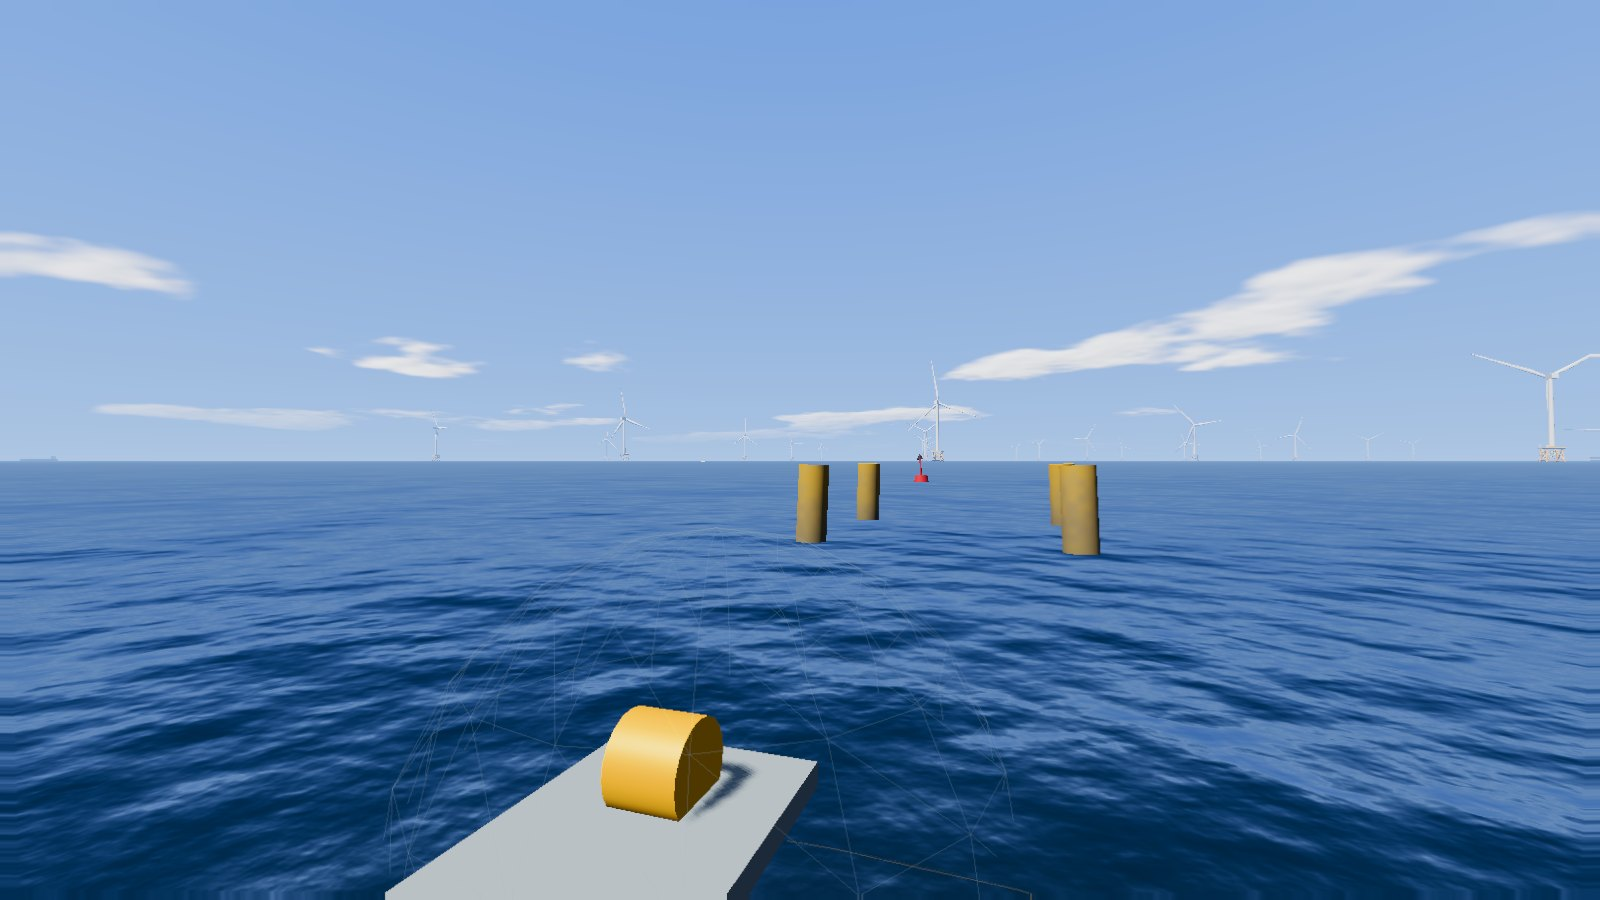
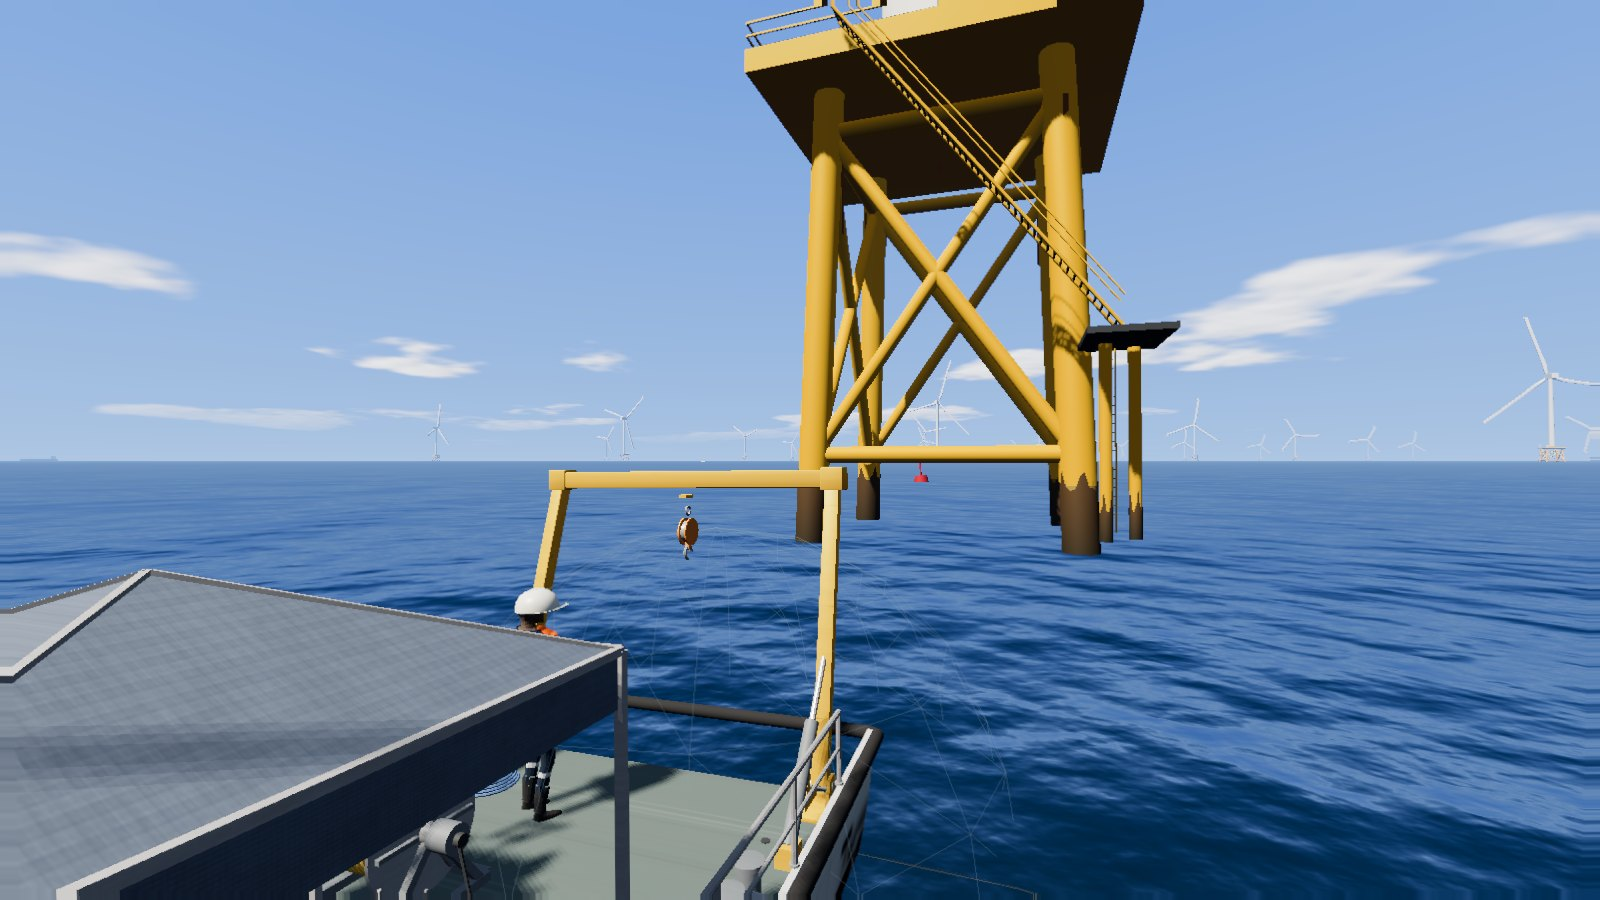
Launch point: the work boat holds station for the whole dive
Replace the placeholder spool drum and grey slab in app.js with spool_station.js: the
deployment intro's work boat (same model and placement, shared through placeWorkBoat in
deploy_intro.js) stays at the spool with a crew member by the winch whenever no intro boat is
in the scene; the spool label points at its stern. No boat in the indoor pool. No collider is
added (the server has none); the hull extends away from the dive site and the README records
where it can visually overlap the recovery point. app.js keeps only the import and calls.

docs/design/wind-farm: second-round before/after shots (site foundations, launch point, rotor
close-ups) and README sections on blades, site topsides, collision and the boat.

Claude-Session: https://claude.ai/code/session_01N551KvQYSQDapLw9TFaBhA

Changed region(s): [[0.0, 0.0, 0.75, 1.0], [0.9375, 0.4044, 1.0, 0.4356]]

diff --git a/simulator/viewer/spool_station.js b/simulator/viewer/spool_station.js
@@ -1,0 +1,82 @@
+// The support work boat holding station at the launch point for the whole dive.
+//
+// In reality the boat that launched the vehicle stays at the launch point while it works and the tether runs
+// up to its stern, where the winch is. The deployment intro (deploy_intro.js) brings its own boat; whenever no
+// intro exists (`?nointro`, the intro switched off, a joined room, a replay) this module shows the same boat,
+// placed the same way: transom at the spool, bow pointing away from the dive site, one crew member idling by
+// the tether reel. It is presentation only: the server has no boat collider, so the hull must stay clear of
+// where the vehicle surfaces (see docs/design/wind-farm/README.md).
+//
+//   const station = new SpoolStation(scene, loadIntroAssets);
+//   station.build(world, startNed);          // after every world (re)build
+//   each frame: station.update(dt, introBoatShown)
+//   station.labelPosition(world)             // where the "spool" label sits: the boat's stern
+import * as THREE from 'three';
+import {Humanoid} from './humanoid.js';
+import {placeWorkBoat} from './deploy_intro.js';
+import {surfacePlan} from './surface_set.js';
+
+const LABEL_LIFT = 1.2;
+
+export class SpoolStation {
+  constructor(scene, loadAssets) {
+    this.scene = scene;
+    this.loadAssets = loadAssets;
+    this.boat = null;
+    this.crew = null;
+    this.generation = 0;
+    this.t = 0;
+  }
+
+  /** (Re)places the boat for a world; the boat model loads once and is shared with the intro's assets. */
+  async build(world, start) {
+    this.clear();
+    const generation = ++this.generation;
+    // An indoor pool is worked from its edge, not from a boat.
+    if (!world?.spool || surfacePlan(world).kind === 'indoor') return;
+    const assets = await this.loadAssets().catch(() => ({}));
+    if (generation !== this.generation) return;
+    const boat = placeWorkBoat(assets, world.spool, start);
+    boat.name = 'spool-station-boat';
+    const ud = boat.userData;
+    if (assets.human) {
+      this.crew = new Humanoid(assets.human, {shirt: 0x2b3f55, pants: 0x2a2f36, vest: 0xff6a13, helmet: 0xf4f4ef});
+      this.crew.root.position.set(-0.62, ud.deckY, ud.sternZ + 1.1);
+      this.crew.root.rotation.y = Math.PI * 0.85;
+      this.crew.play('Idle', {at: 0.7});
+      boat.add(this.crew.root);
+    }
+    this.boat = boat;
+    this.scene.add(boat);
+  }
+
+  /** introBoat: the deployment intro's own boat is in the scene, so this one stays hidden. */
+  update(dt, introBoat) {
+    if (!this.boat) return;
+    this.boat.visible = !introBoat;
+    if (introBoat) return;
+    this.t += dt;
+    // Holding station in a slight sea: the same gentle motion the intro gives its boat.
+    this.boat.rotation.z = Math.sin(this.t * 0.9) * 0.018;
+    this.boat.rotation.x = Math.sin(this.t * 0.7 + 1) * 0.012;
+    this.boat.position.y = Math.sin(this.t * 0.8) * 0.05;
+    this.crew?.update(dt);
+  }
+
+  /** The spool label: on the boat's stern above the winch when the boat is shown, else over the spool point. */
+  labelPosition(world) {
+    if (this.boat) {
+      const ud = this.boat.userData;
+      return this.boat.localToWorld(new THREE.Vector3(0, ud.deckY + LABEL_LIFT, ud.sternZ + 0.5));
+    }
+    const s = world.spool;
+    return new THREE.Vector3(-s[1], -s[2], s[0]).add(new THREE.Vector3(0, LABEL_LIFT, 0));
+  }
+
+  clear() {
+    this.generation++;
+    if (this.boat) this.scene.remove(this.boat);
+    this.boat = null;
+    this.crew = null;
+  }
+}

diff --git a/simulator/viewer/app.js b/simulator/viewer/app.js
@@ -29,6 +29,7 @@ import {installMusic} from './audio/music.js';
 import {installVoice} from './audio/voice.js';
 import { OrbitControls } from 'three/addons/controls/OrbitControls.js';
 import { DeployIntro } from './deploy_intro.js';
+import { SpoolStation } from './spool_station.js';
 import { placeSceneModel } from './scene_models.js';
 import { Cable } from './cable.js';
 import { Environment } from './environment.js';
@@ -231,7 +232,7 @@ const objG = new THREE.Group(); scene.add(objG);
 let objMarkers = [];
 let structureSet = null;                // structures.js: detailed meshes drawn inside the collision shapes
 
-let spoolMarker = [];
+const spoolStation = new SpoolStation(scene, () => loadIntroAssets());
 let env = null;
 function buildWorld() {
   surfacePaint.update(null);
@@ -249,12 +250,7 @@ function buildWorld() {
   worldG.add(structureSet.group);
   for (const [name, entry] of structureSet.entries) obstacleMeshes.set(name, entry);
   for (const ob of W.obstacles || []) if (ob.type === 'model') placeSceneModel(ob, worldG, P, detail);
-  // spool / deployment point
-  const sp = P(W.spool || [0, 0, 0]);
-  const drum = new THREE.Mesh(new THREE.CylinderGeometry(.45, .45, .7, 20), new THREE.MeshStandardMaterial({ color: 0xf2b705, roughness: .5 }));
-  drum.rotation.z = Math.PI / 2; drum.position.copy(sp).add(new THREE.Vector3(0, .5, 0)); worldG.add(drum); spoolMarker = [drum];
-  const deck = new THREE.Mesh(new THREE.BoxGeometry(2.2, .3, 3.2), new THREE.MeshStandardMaterial({ color: 0x8795a0 }));
-  deck.position.copy(sp).add(new THREE.Vector3(0, .1, -.6)); worldG.add(deck); spoolMarker.push(deck);
+  spoolStation.build(W, startPresentation?.introStart(W, S?.pos || [0, 0, 3]) || W.start_pos || [0, 0, 3]);
   buildObjectives(W.objectives || []);
   buildThrBars();
   matchThrusters();
@@ -1275,7 +1271,7 @@ function frame(now) {
   siltFx.update({camera, state: S, world: W, waterColour: _wc, real: $('optFog').checked && camMode !== 'top',
     displayFar: Math.max(90, cameraRig.topH * 4), lampLevel: [0, .55, 1][S?.rc?.right_switch || 0] || 0, rov: rovG});
   daylightRig.update({ camera, world: W, dt, view: camMode, surface, renderer });
-  for (const m of spoolMarker) m.visible = !intro;            // the work boat replaces the placeholder reel
+  spoolStation.update(dt, !!intro);                            // the intro brings its own boat
   objG.visible = !inIntro; if (inIntro) { curArrow.visible = false; particles.visible = false; }
   if (!inIntro) updateParticles(dt, rovG.position);
   updatePenNet(structureSet, flowField, now / 1000);
@@ -1306,7 +1302,7 @@ function frame(now) {
   // labels
   const r = vp.getBoundingClientRect();
   const L = [];
-  if (W?.spool) L.push({ id: 'spool', text: '纜盤 / 投放點', pos: P(W.spool).add(new THREE.Vector3(0, 1.2, 0)), cls: 'spool' });
+  if (W?.spool) L.push({ id: 'spool', text: '纜盤 / 投放點', pos: spoolStation.labelPosition(W), cls: 'spool' });
   if (cur) L.push({ id: 'obj', text: `${cur.o.label} · ${cur.m.g.position.distanceTo(rovG.position).toFixed(1)} m`, pos: cur.m.g.position, cls: 'obj' });
   for (const w of wrapLabels) L.push(w);
   for (const n of S?.tether?.snagged_on || []) { const e = obstacleMeshes.get(n); if (e && !wrapLabels.some((w) => w.id === 'wrap:' + n)) { const p = e.mesh.position.clone(); if (e.ob.type === 'cylinder') p.y = rovG.position.y + 1; L.push({ id: 'snag:' + n, text: `卡纜：${n}`, pos: p, cls: 'bad' }); } }

diff --git a/simulator/viewer/deploy_intro.js b/simulator/viewer/deploy_intro.js
@@ -207,6 +207,26 @@ function sagLine(out, a, b, sag, count, floorY = -Infinity) {
   }
 }
 
+/**
+ * The work boat at the launch point: stern (-Z local) at the spool, bow pointing away from the dive site.
+ * Shared with spool_station.js, which keeps the same boat there when no intro is shown.
+ */
+export function placeWorkBoat(assets, spool, start) {
+  const boat = (assets.boat && placeVesselModel(assets.boat)) || buildFallbackBoat();
+  const at = toThree(spool);
+  const dir = new THREE.Vector3().subVectors(toThree(start), at);
+  dir.y = 0;
+  if (dir.lengthSq() < 1e-6) dir.set(0, 0, -1);
+  dir.normalize();
+  boat.rotation.y = Math.atan2(-dir.x, -dir.z);
+  const ud = boat.userData;
+  boat.position.copy(at).addScaledVector(dir, ud.sternZ + 0.15);   // transom just inboard of the spool
+  boat.position.y = 0;
+  if (!ud.drum || !ud.exit) buildFallbackDrum(boat);
+  boat.updateMatrixWorld(true);
+  return boat;
+}
+
 export class DeployIntro {
   static async loadAssets(base = 'models/', { tier = assetTextureTier() } = {}) {
     const boatFile = tier === 'high' ? 'workboat_high.glb' : 'workboat.glb';
@@ -232,19 +252,9 @@ export class DeployIntro {
     this.playing = false;
     this.objects = [];
 
-    // boat: stern (-Z local) at the spool, bow pointing away from the dive site
-    this.boat = (assets.boat && placeVesselModel(assets.boat)) || buildFallbackBoat();
-    const dir = new THREE.Vector3().subVectors(this.start, this.spool);
-    dir.y = 0;
-    if (dir.lengthSq() < 1e-6) dir.set(0, 0, -1);
-    dir.normalize();
-    this.boat.rotation.y = Math.atan2(-dir.x, -dir.z);
+    this.boat = placeWorkBoat(assets, spool, start);
     const ud = this.boat.userData;
-    this.boat.position.copy(this.spool).addScaledVector(dir, ud.sternZ + 0.15);   // transom just inboard of the spool
-    this.boat.position.y = 0;
     this._add(this.boat);
-    if (!ud.drum || !ud.exit) buildFallbackDrum(this.boat);
-    this.boat.updateMatrixWorld(true);
 
     this.rig = new LaunchRig(this.boat);
     this._add(this.rig.group);

diff --git a/docs/design/wind-farm/README.md b/docs/design/wind-farm/README.md
@@ -1,4 +1,4 @@
-# 水面以上的離岸風場與海平線構圖（`simulator/viewer/wind_farm.js`、`surface_set.js`）
+# 水面以上的離岸風場與海平線構圖（`simulator/viewer/wind_farm.js`、`surface_set.js`、`site_topside.js`、`spool_station.js`）
 
 擁有者提供了幾張參考圖（離岸與近岸風場的搜尋結果截圖，以及一張自己拍的黃色導管架照片）。
 那些是第三方照片，**不放進儲存庫，也不放任何由其像素衍生的影像**；本文只用文字描述看到的特徵與量到的數值。
@@ -20,12 +20,14 @@
 | 項目 | 修改前 | 修改後 |
 |---|---|---|
 | 風機數量與排列 | 6 支一直線，距場址 520 m、間距 260 m | 導管架場址 44 支＋1 座變電站，錯位格網，延伸約 6～8 km |
-| 葉片 | 2.6 × 62 m 扁平長方塊 | 翼型斷面（NACA 4 位數對稱翼型，根部漸變為圓）、扭轉、葉尖預彎，葉尖弦長約 0.5 m |
+| 葉片 | 2.6 × 62 m 扁平長方塊 | 彎刀形平面：圓形葉根、20 % 展長處最大弦長、前緣近乎直線、後緣外凸後以長弧線收到葉尖；翼型斷面放樣、扭轉 13°→0°、葉尖預彎 4.5 % 半徑 |
 | 機艙／輪轂 | 方塊＋球 | 長方形機艙（前端略縮一階，不做圓角）＋短尖錐導流罩 |
 | 基礎 | 平滑黃色圓柱 | 單樁：黃色轉接段、黑色浪濺帶、深色平台、欄杆、靠船樁、吊桿；導管架：四腳斜撐、X 撐、方形甲板與欄杆 |
 | 島嶼 | 9 座 25～115 m 高的多面體錐，在 700～1080 m（夾在風機之間） | 全部移除；只有近岸場址有低矮、平滑、被空氣霧化的遠方陸地剪影 |
 | 其他船 | 方塊＋錐形船艏 | 平直船側的剪影：人員運輸船（雙體 26 m）、小型貨輪（90 m）、近岸漁船（18 m）、工作船（30 m） |
 | 轉子動畫 | CPU 每幀改 6 個群組 | 頂點著色器依每支風機的相位與轉速旋轉，CPU 不做事 |
+| 巡檢中的導管架／單樁 | 只到水面上 3 m 就截斷（四根黃色短柱、深褐色鼓狀轉接段） | 水面以上補到轉接段與甲板，上面立著風機（見下節） |
+| 投放點 | 灰色方板＋黃色半圓柱（佔位用） | 下水的工作船整個潛航都留在投放點，纜線從船尾出去（見下節） |
 
 ## 使用的數值（典型公開值，不指涉任何廠牌或型號）
 
@@ -40,6 +42,55 @@
 - 每支風機偏航有 ±4° 的差異（各自追風），相位隨機，因此不會同步。
 - 葉片最大弦長：`jacket` 4.3 m、`large` 5.6 m（展弦比超過 15）；葉片傾角 5～6°，葉尖預彎約 3.5 % 半徑。
 - 風場外緣斜切一角（依海域租約線），格網有約 6～8 % 的隨機偏移；變電站放在中間一排。
+
+## 葉片與轉子（第二輪，擁有者：「葉片認真做」「像刀子一樣有弧度」）
+
+- 平面形狀：葉根為圓柱（直徑 3.4 m／4.4 m），4～20 % 展長平滑過渡到最大弦長（`jacket` 4.3 m、`large` 5.6 m），
+  之後以凸曲線收到葉尖（最大弦長的 10 %，最後一站再縮成圓尖）。前緣距變槳軸只從 27 % 弦長緩慢變到葉尖，
+  所以前緣近乎直線，弦長的變化全在後緣：正面看是一把微彎的刀。外側 45 % 葉尖略往後緣掃（約 1 % 半徑）。
+- 斷面：NACA 4 位數對稱翼型（後緣薄、前緣圓），根部漸變為圓；近景每站 12 點、26 站，遠景 6 點、10 站。
+- 扭轉 13°（葉根）到 0°（葉尖）；預彎往上風 4.5 % 半徑（側面可見弧度）；轉子面上仰 5～6°，在塔筒上風側。
+- 輪轂：短尖錐導流罩，直徑約為機艙高度的 0.7 倍；每支葉根套一圈變槳軸承法蘭，葉根伸入導流罩，不是懸空。
+- 遠景破碎成虛線的原因是葉片比一個像素還細。頂點著色器依輪轂距離與每像素角度，把每個斷面沿弦向與厚度方向
+  各自放寬到至少約 1.7 像素（`aBlade` 變槳軸點、`aSection` 扭轉／半弦長／半厚度）；這是隨距離連續變化的，
+  近景完全不動。取代第一輪「遠景模型葉片加寬 1.6 倍」的做法。
+- 紅白紅航空色帶只在 `large` 型（外海大型機），色帶交界用重複斷面，不會漸層。
+
+專用近拍鏡頭（最近一支風場風機，海面上 10 m）：`rotor-front-150`、`rotor-front-300`、`rotor-front-600`（正面偏 8°）、
+`rotor-side-300`（側面），前後各一張。側面 300 m 時往下的那支葉片幾乎正對著鏡頭邊緣，仍有輕微鋸齒，但不再斷成虛線。
+
+## 巡檢結構物的水面以上部分（`site_topside.js`）
+
+場址本身的導管架與單樁在劇本（與伺服器碰撞）中只到水面上 3 m。實際風場裡它們就是其中一支風機的基礎，
+所以補上水面以上的部分，並把風場格網中該節點的風機改立在它上面：
+
+- 導管架：沿劇本四根樁腿的實際位置與斜率（上端半寬 4.8 m、往上收）延伸到 +18 m 甲板；水平撐與 X 撐、
+  外伸方形甲板（深色格柵、欄杆、小倉庫）、轉接段到 +21 m 塔筒法蘭；第一根樁腿外側有靠船樁、爬梯、+7 m 休息平台，
+  再一段樓梯沿甲板外緣上去。樁腿浪濺帶深色、上緣不規則，往上轉為鏽褐；節點與甲板下方有鏽水痕。
+- 單樁：劇本的轉接段到 +3 m 為止（上面已有一圈低平台，保留作為靠船後的休息平台）。往上補黃色轉接段到 +22 m、
+  主維修平台（格柵、欄杆、吊桿）、從靠船樁一路到主平台的爬梯，靠船樁延伸到 +6.5 m；浪濺帶與鏽水痕同上。
+- 上面的風機用該場址的類型（`jacket` 或 `large`），面向與整座風場相同的風向。
+- 兩種基礎各一個函式（`jacketTopside`、`monopileTopside`），之後 M1 的精細導管架模型可以直接替換前者。
+
+### 碰撞（重要）
+
+載具不能飛出水面，所以 **+0.5 m 以上** 的部分不需要碰撞體，也沒有加。**+0.5 m 以下**（到 −0.6 m，剛好沒入水面）
+只有浪濺帶的漆皮：包在劇本既有的樁腿與轉接段外面，只比碰撞圓柱大 0.024 m（既有結構的貽貝附著物本來就凸出 0.05 m），
+沿樁腿斜率走。靠船樁、爬梯等附屬物都從 +0.5 m 以上開始。伺服器幾何完全沒有改動。
+
+## 投放點的工作船（`spool_station.js`）
+
+真實作業中，放下載具的工作船整個潛航都停在投放點，纜線從船尾的絞車出去。原本只有下水動畫期間有這艘船；
+沒有動畫時（`?nointro`、關掉動畫、加入他人房間、回放）投放點只是一塊灰板加黃色半圓柱。現在：
+
+- 與下水動畫同一個船模（`deploy_intro.js` 抽出 `placeWorkBoat`，兩邊共用同一個擺放方式：船尾在纜盤點、船艏背向作業點），
+  一名船員在絞車旁待命；有下水動畫時用動畫自己的船，這艘隱藏。
+- 「纜盤 / 投放點」標籤改指向船尾甲板上方。室內水池不放船（在池邊作業），標籤仍在原纜盤點。
+- 吃水與碰撞：船長 11.6 m、船殼吃水約 0.6 m，加上龍骨、舵與螺槳約 1 m。伺服器沒有船的碰撞體，這艘船也不加。
+  船體從纜盤點往**遠離**作業點的方向延伸，載具的起始點與作業區都在另一側；但回收點（例如導管架場址的
+  「回收上浮」目標，半徑 3 m）與船尾只差 1～2 m，載具在那裡浮到 1 m 深以內時，畫面上可能與船尾的舵與螺槳重疊而不會碰撞。
+  真實回收就在船尾，這是已知、刻意接受的限制，不改伺服器。
+- 成本：這艘船的 draw call 與下水動畫期間相同（約 +80～100，GLB 船模本身），只是沒有動畫的路徑現在也付這個成本。
 
 ## 各場址的選擇與離岸距離（理由）
 
@@ -65,10 +116,16 @@
 `scene.userData.daylightHaze`），所以遠排風機是逐漸淡入海平線，而不是在截面處突然消失。晴天霧化距離 3.6 km：
 4 km 外約 67 %、8 km 外約 89 %。這也用在陸地剪影與遠方船隻上。
 
-遠景模型（距場址 1.7 km 以外，以及 low 畫質的全部）葉片弦長畫寬 1.6 倍、塔筒 1.3 倍：遠景只有一兩個像素寬，
-真實寬度的覆蓋率會讓葉片幾乎消失，加寬後才接近照片中遠方風機那種淡白的線條。這是呈現上的 LOD 補償，不影響近景。
+遠景模型（距場址 1.7 km 以外，以及 low 畫質的全部）用較少的斷面與分段；遠方葉片的最小寬度由頂點著色器依距離補償
+（見「葉片與轉子」），不再整體加寬。
 
 ## 效能（軟體 GL，同一台共用機器；毫秒只供相對比較）
+
+第二輪（場址上部結構、投放點工作船、新葉片）後，medium 導管架水面 draw calls 79 → 160、三角形 111 k → 257 k：
+增加的幾乎全是投放點工作船（與下水動畫期間相同的 GLB 船模與船員）；場址上部結構與其風機各 1 個 draw call。
+low 畫質（第一輪 → 第二輪）：下水動畫吊放 138 → 140、導管架水面 41 → 69、全景 46 → 99 draw calls。
+有下水動畫的一般流程本來就一直有這艘船（吊放畫面幾乎不變）；變貴的是 `?nointro` 與加入房間這類沒有動畫的路徑，
+現在與一般流程付同樣的成本。近景風機模型約 2400 個三角形、遠景約 500～660 個（葉片斷面加密）。下表是第一輪的數字。
 
 `python tools/browser_daylight_shots.py`，整幀（含陰影與所有後製 pass）。
 
@@ -101,6 +158,11 @@
 | 單樁場址水面 | `monopile-surface-before.jpg` | `monopile-surface-after.jpg` |
 | 開放水域（遠方風場） | `open-surface-before.jpg` | `open-surface-after.jpg` |
 | 港區（陰天，遠方陸地） | `../daylight/harbour-surface-after.jpg` | `harbour-surface-after.jpg` |
+| 投放點（工作船） | `spool-surface-before.jpg` | `spool-surface-after.jpg` |
+| 轉子正面 150／300／600 m | `rotor-front-*-before.jpg` | `rotor-front-*-after.jpg` |
+| 轉子側面 300 m | `rotor-side-300-before.jpg` | `rotor-side-300-after.jpg` |
+
+導管架、單樁、追蹤、下水動畫與全景的「修改後」都已含場址上部結構與投放點工作船。
 
 重拍：`cd simulator && ROV_DAYLIGHT_OUT=output/wind-farm python tools/run_browser_checks.py browser_daylight_shots`
 （`ROV_DAYLIGHT_VIEWS` 選畫面、`ROV_DAYLIGHT_TIER` 選畫質）。報告中的 `set` 欄位列出場址類型、風機數與風場中心（NED）。
@@ -110,5 +172,6 @@
 - 38 m 高的全景看不到「一排排往後退」的俯視感：海面網格只到 2.6 km，鏡頭再高時海平線會比真實低，
   這要改 `fx/daylight.js` 的海面，不在本次範圍。
 - 1～2 km 外的黃色導管架被霧化後偏白，照片中遠方基礎偏暗黃。
-- 場址本身巡檢的導管架／單樁頂上沒有風機（當作施工中或尚未裝機）；要裝機需改場址結構，不在本次範圍。
+- 單樁場址從 15 m 處仰看時，主平台底面幾乎全黑（只有半球光的地面項照到）；真實格柵會透光，這裡是實心板。
+- 側面看往下的那支葉片仍有輕微鋸齒（約 1.7 像素寬的斜線，沒有多重取樣）。
 - 船隻直線前進（沿用 `environment.js` 的更新），長時間後會駛離到霧裡；拉近機制讓它不會突然消失。
